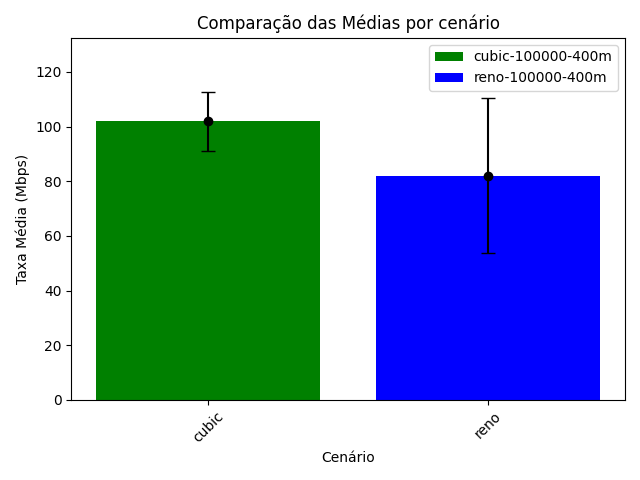
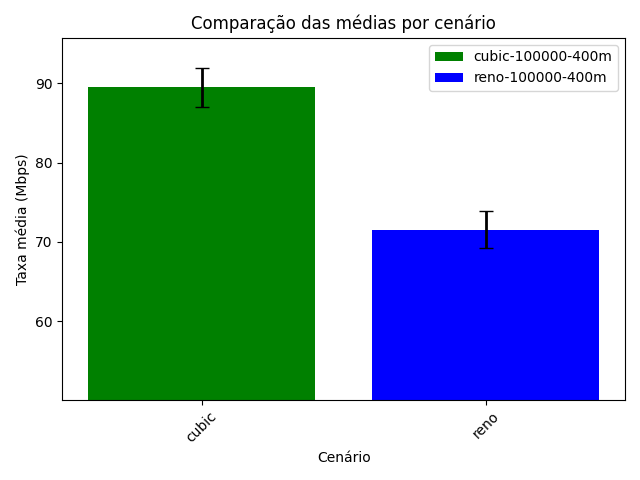
refactor(analisar_dados): melhoria na geração dos gráficos e ajustes nas escalas

diff --git a/analisar_dados.py b/analisar_dados.py
@@ -1,11 +1,11 @@
-from pandas import read_csv, DataFrame
+from pandas import read_csv, DataFrame, options
 import numpy as npy
 from scipy import stats
 import utils
 import matplotlib.pyplot as plt
 
 column_names = ['tag','timestamp','ip_fonte','porta_fonte', 'ip_destino', 'porta_destino', 'protocolo', 'intervalo_medicao', 'id_tx', 'tx_bps']
-confianca = 0.90
+confianca = 0.99
 
 def importar_dados(arquivo: str) -> DataFrame:
 
@@ -36,9 +36,10 @@ def calcular_intervalo(dados: DataFrame, campo: str = 'tx_bps') -> DataFrame:
 def gerar_graficos(dados: DataFrame):
     dados['prefixo'], dados['sufixo'] = zip(*dados['tag'].apply(separar_tag))
     conjuntos = dados[dados['sufixo'].duplicated(keep=False)]
+    escalas = inserir_escalas()
 
     for sufixo, grupo in conjuntos.groupby('sufixo'):
-        mbps = 1000000 # 1 Mbps
+        mbps = 1e6# 1 Mbps
         x_values = grupo['prefixo'].values
         y_values = grupo['media'].values
         l_values = grupo['tag'].values
@@ -48,16 +49,21 @@ def gerar_graficos(dados: DataFrame):
         ic_min_values /= mbps
         ic_max_values /= mbps
         y_values /= mbps # transformando em Mbps
-        y_max = max(y_values) + max(y_values)*0.3
+        
+        y_max = max(y_values) + max(y_values)*escalas[sufixo]['max']
+        y_min = min(y_values) - min(y_values)*escalas[sufixo]['min']
 
         plt.clf() # limpar plot
+        plt.ticklabel_format(axis='y', style='plain')
         plt.bar(x_values, y_values, label=l_values, color=['g', 'b'])
-        plt.errorbar(x_values, y_values, yerr=[y_values - ic_min_values, ic_max_values - y_values], fmt='o', capsize=5, color='k')
+        
+        y_err=[y_values - ic_min_values, ic_max_values - y_values]
+        plt.errorbar(x_values, y_values, yerr=y_err, capsize=5, color='k', fmt='none', linewidth=2)
 
-        plt.ylim(0, y_max)
+        plt.ylim(y_min, y_max)
         plt.xlabel('Cenário')
-        plt.ylabel('Taxa Média (Mbps)')
-        plt.title('Comparação das Médias por cenário')
+        plt.ylabel('Taxa média (Mbps)')
+        plt.title('Comparação das médias por cenário')
         plt.legend()
         plt.xticks(rotation=45)
         plt.tight_layout()
@@ -69,6 +75,14 @@ def separar_tag(tag):
     prefixo = partes[0] if len(partes) > 0 else ''
     sufixo = partes[1] if len(partes) > 1 else ''
     return prefixo, sufixo
+
+def inserir_escalas():
+    escalas = {}
+    escalas['100000-400m'] = {'min':0.3, 'max':0.07}
+    escalas['100000-800m'] = {'min':0.3, 'max':0.1}
+    escalas['1000000-400m'] = {'min':0.007, 'max':0.003}
+    escalas['1000000-800m'] = {'min':0.007, 'max':0.003}
+    return escalas
 
 if __name__ == "__main__":
     dados = importar_dados('resultados/srv-data.csv')

diff --git a/gerar_dados.py b/gerar_dados.py
@@ -42,8 +42,8 @@ fatores['ber'] = ['100000', '1000000']
 fatores['bg'] = ['400m', '800m']
 
 
-num_rep = 4 # FIXME configurar número de repetições
-time_tx = 5 # TODO verificar se o tempo será 60s
+num_rep = 8 # FIXME configurar número de repetições
+time_tx = 10*60 # TODO verificar se o tempo será 60s
 t_sleep = 2 # tempo para aguardar entre threads
 i_report = 5
 
@@ -66,7 +66,7 @@ def executa_experimento(imn_id: str):
                     # cmd_cli_tcp = f"sudo himage {pc1}@{imn_id} iperf -y -e -y C -c {pc2.interfaces['eth0']} -t {time_tx} -Z {proto} >> cli-data.csv"
 
                     cmd_srv_tcp = f"sudo himage {pc2.name}@{imn_id} iperf -s -e -y C -Z {proto} -t {time_tx + (2*t_sleep)}"
-                    cmd_cli_tcp = f"sudo himage {pc1.name}@{imn_id} iperf -c {pc2.interfaces['eth0']} -e -y C -t {time_tx + (1*t_sleep)} -Z {proto} "
+                    cmd_cli_tcp = f"sudo himage {pc1.name}@{imn_id} iperf -c {pc2.interfaces['eth0']} -e -y C -t {time_tx + (1*t_sleep)} -Z {proto}"
                     
                     tag_experimento = f"{proto}-{ber}-{trafego_udp}"
                     comandos = {
